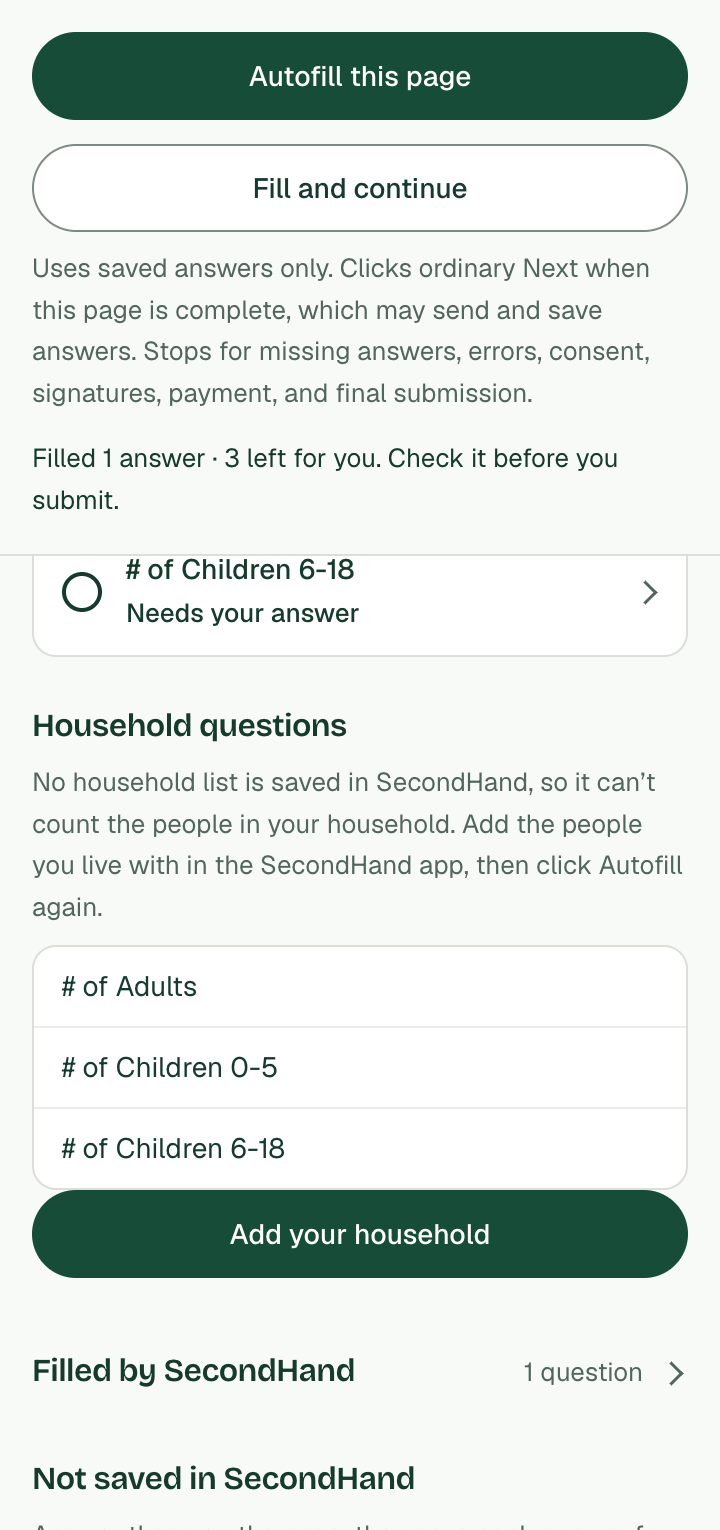
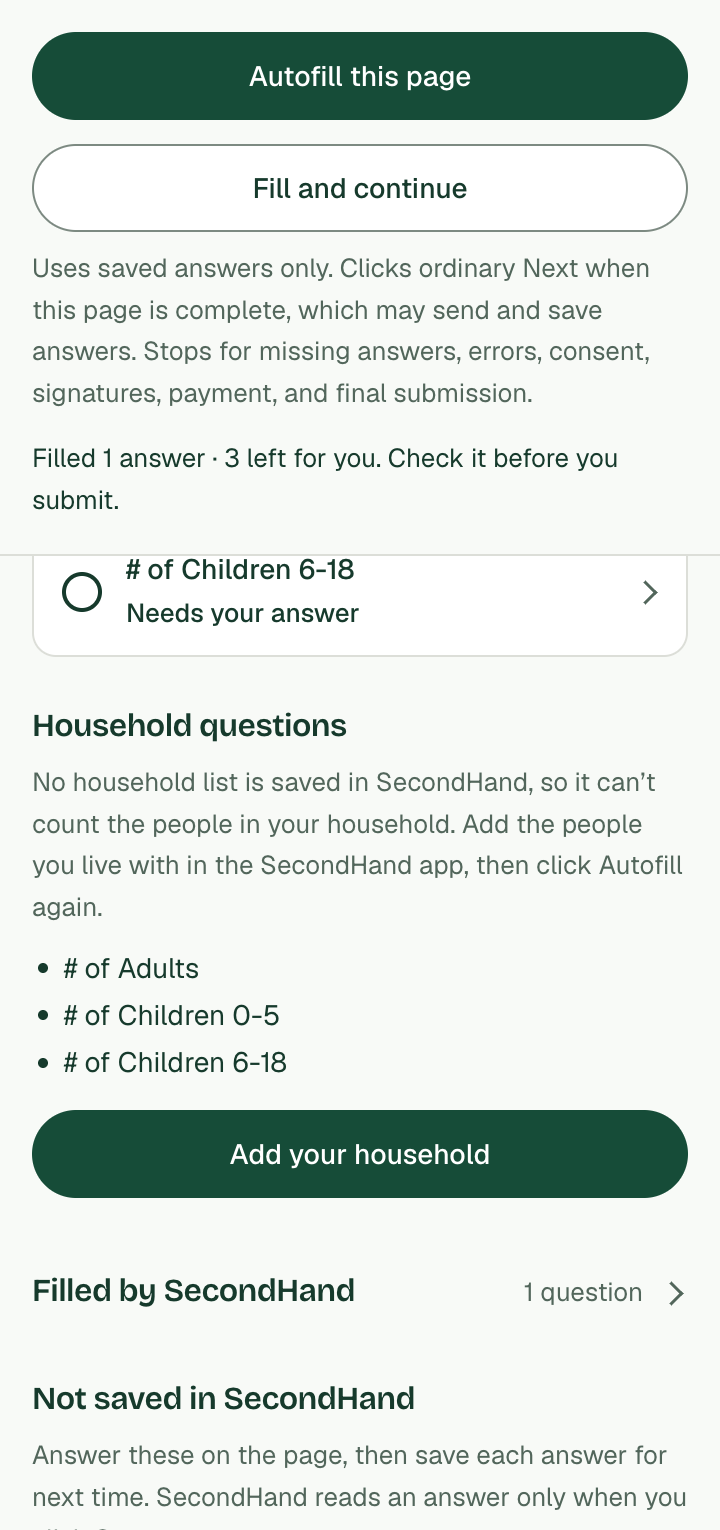
style: list the household questions as the held sensitive details are listed
Main's Household questions (#180) drew each question in a white box with no mark
or arrow, which reviewers had read as an empty field to type in when the held
sensitive details looked the same. Both are now a bulleted list above their button.
Both new sections, and Remember for next time, also show a site's questions in
the reader's language once translated, with the form's words under them.

diff --git a/extension/panel.js b/extension/panel.js
@@ -764,7 +764,7 @@
     // question list's own button under it, which puts them in the reader's.
     const questionsOffered = () => Boolean(target) && fillable && service.supported() && (language !== 'en' || Boolean(questions)) && !questionBusy;
     const wordsHinted = () => Boolean(site) && language !== 'en' && !translated.size && questionsOffered() &&
-      (named.length || held.length || layaGuesses.length || filledNames.length || savable.length) > 0;
+      (named.length || held.length || layaGuesses.length || filledNames.length || savable.length || household?.questions.length || rememberable.length) > 0;
     function renderWordsHint() {
       $('words-hint').hidden = !wordsHinted();
       $('words-translate').textContent = needsDownload ? t('translate.download', { language: languageName(language) }) : t('questions.show');
@@ -872,7 +872,7 @@
     // The household questions in their own words, what the list lacks (the person to finish named as My information names them),
     // and one button: Add your household, or with a list saved, Open your household list.
     function renderHousehold() {
-      const signature = JSON.stringify([language, household]);
+      const signature = JSON.stringify([language, household, translated.size]);
       if (signature === householdSignature) return;
       householdSignature = signature;
       $('household-section').hidden = !household;
@@ -886,8 +886,7 @@
         const row = document.createElement('div');
         row.className = 'checklist-item'; row.dataset.householdId = item.id;
         const copy = document.createElement('span'); copy.className = 'checklist-copy';
-        const label = document.createElement('span'); label.className = 'checklist-label'; label.dir = 'auto'; label.textContent = fixedText(item.label, 200);
-        copy.append(label);
+        copy.append(...questionWords(item.label));
         row.append(copy);
         return row;
       }));
@@ -896,15 +895,14 @@
     // unless its answer changes over time, until the applicant changes it. The section's one button remembers the checked ones.
     function rememberChecked() { return rememberable.filter(item => rememberChoices.get(item.id) ?? !item.timeBound).map(item => item.id); }
     function renderRemember() {
-      const signature = JSON.stringify([language, rememberable]);
+      const signature = JSON.stringify([language, rememberable, translated.size]);
       if (signature === rememberSignature) return;
       rememberSignature = signature;
       $('remember-list').replaceChildren(...rememberable.map(item => {
         const row = document.createElement('div');
         row.className = 'checklist-item save-row'; row.dataset.rememberId = item.id;
         const copy = document.createElement('span'); copy.className = 'checklist-copy';
-        const label = document.createElement('span'); label.className = 'checklist-label'; label.dir = 'auto'; label.textContent = fixedText(item.label, 200);
-        copy.append(label);
+        copy.append(...questionWords(item.label));
         if (item.timeBound) {
           const detail = document.createElement('span'); detail.className = 'checklist-detail'; detail.textContent = t('remember.changes');
           copy.append(detail);
@@ -913,7 +911,7 @@
         const box = document.createElement('input'); box.type = 'checkbox';
         box.checked = rememberChoices.get(item.id) ?? !item.timeBound;
         box.disabled = working || !target;
-        box.setAttribute('aria-label', t('remember.checkLabel', { label: fixedText(item.label, 200) }));
+        box.setAttribute('aria-label', t('remember.checkLabel', { label: copy.firstChild.textContent }));
         box.addEventListener('change', () => { rememberChoices.set(item.id, box.checked); controls(); });
         check.append(box, document.createTextNode(t('remember.check')));
         row.append(copy, check);
@@ -1246,7 +1244,7 @@
         translated = results;
         translatedFrom = source;
         renderQuestionList();
-        renderLeft(); renderFilled(); renderSaves(); renderHeld(); renderGuesses(); renderWordsHint();
+        renderLeft(); renderFilled(); renderSaves(); renderHeld(); renderHousehold(); renderGuesses(); renderRemember(); renderWordsHint();
         say({ key: 'translate.done' });
       } catch (error) {
         say({ key: 'translate.failed', params: { detail: fixedText(error.message, 200) } }, true);

diff --git a/extension/panel.css b/extension/panel.css
@@ -100,5 +100,5 @@ details.filled>summary>span{display:flex;align-items:center;gap:10px}details.fil
 .remember-check{display:flex;align-items:center;gap:6px;flex-shrink:0;color:var(--muted-foreground);cursor:pointer}.remember-check input{width:16px;height:16px;margin:0;accent-color:var(--primary)}#remember-save{margin-top:8px}
 .guess-mark{border:2px dotted #9b3d8f}
 /* What Fill sensitive details will fill: a plain list above its button, not boxes that look like fields to type in. */
-#held-list{background:none;border:0;border-radius:0;margin:0 0 12px}#held-list .checklist-item{position:relative;padding:2px 0;padding-inline-start:16px}
-#held-list .checklist-item::before{content:"";position:absolute;inset-inline-start:3px;top:50%;width:5px;height:5px;margin-top:-2.5px;border-radius:50%;background:var(--foreground)}
+#held-list,#household-list{background:none;border:0;border-radius:0;margin:0 0 12px}:is(#held-list,#household-list) .checklist-item{position:relative;padding:2px 0;padding-inline-start:16px;border-bottom:0}
+:is(#held-list,#household-list) .checklist-item::before{content:"";position:absolute;inset-inline-start:3px;top:50%;width:5px;height:5px;margin-top:-2.5px;border-radius:50%;background:var(--foreground)}
